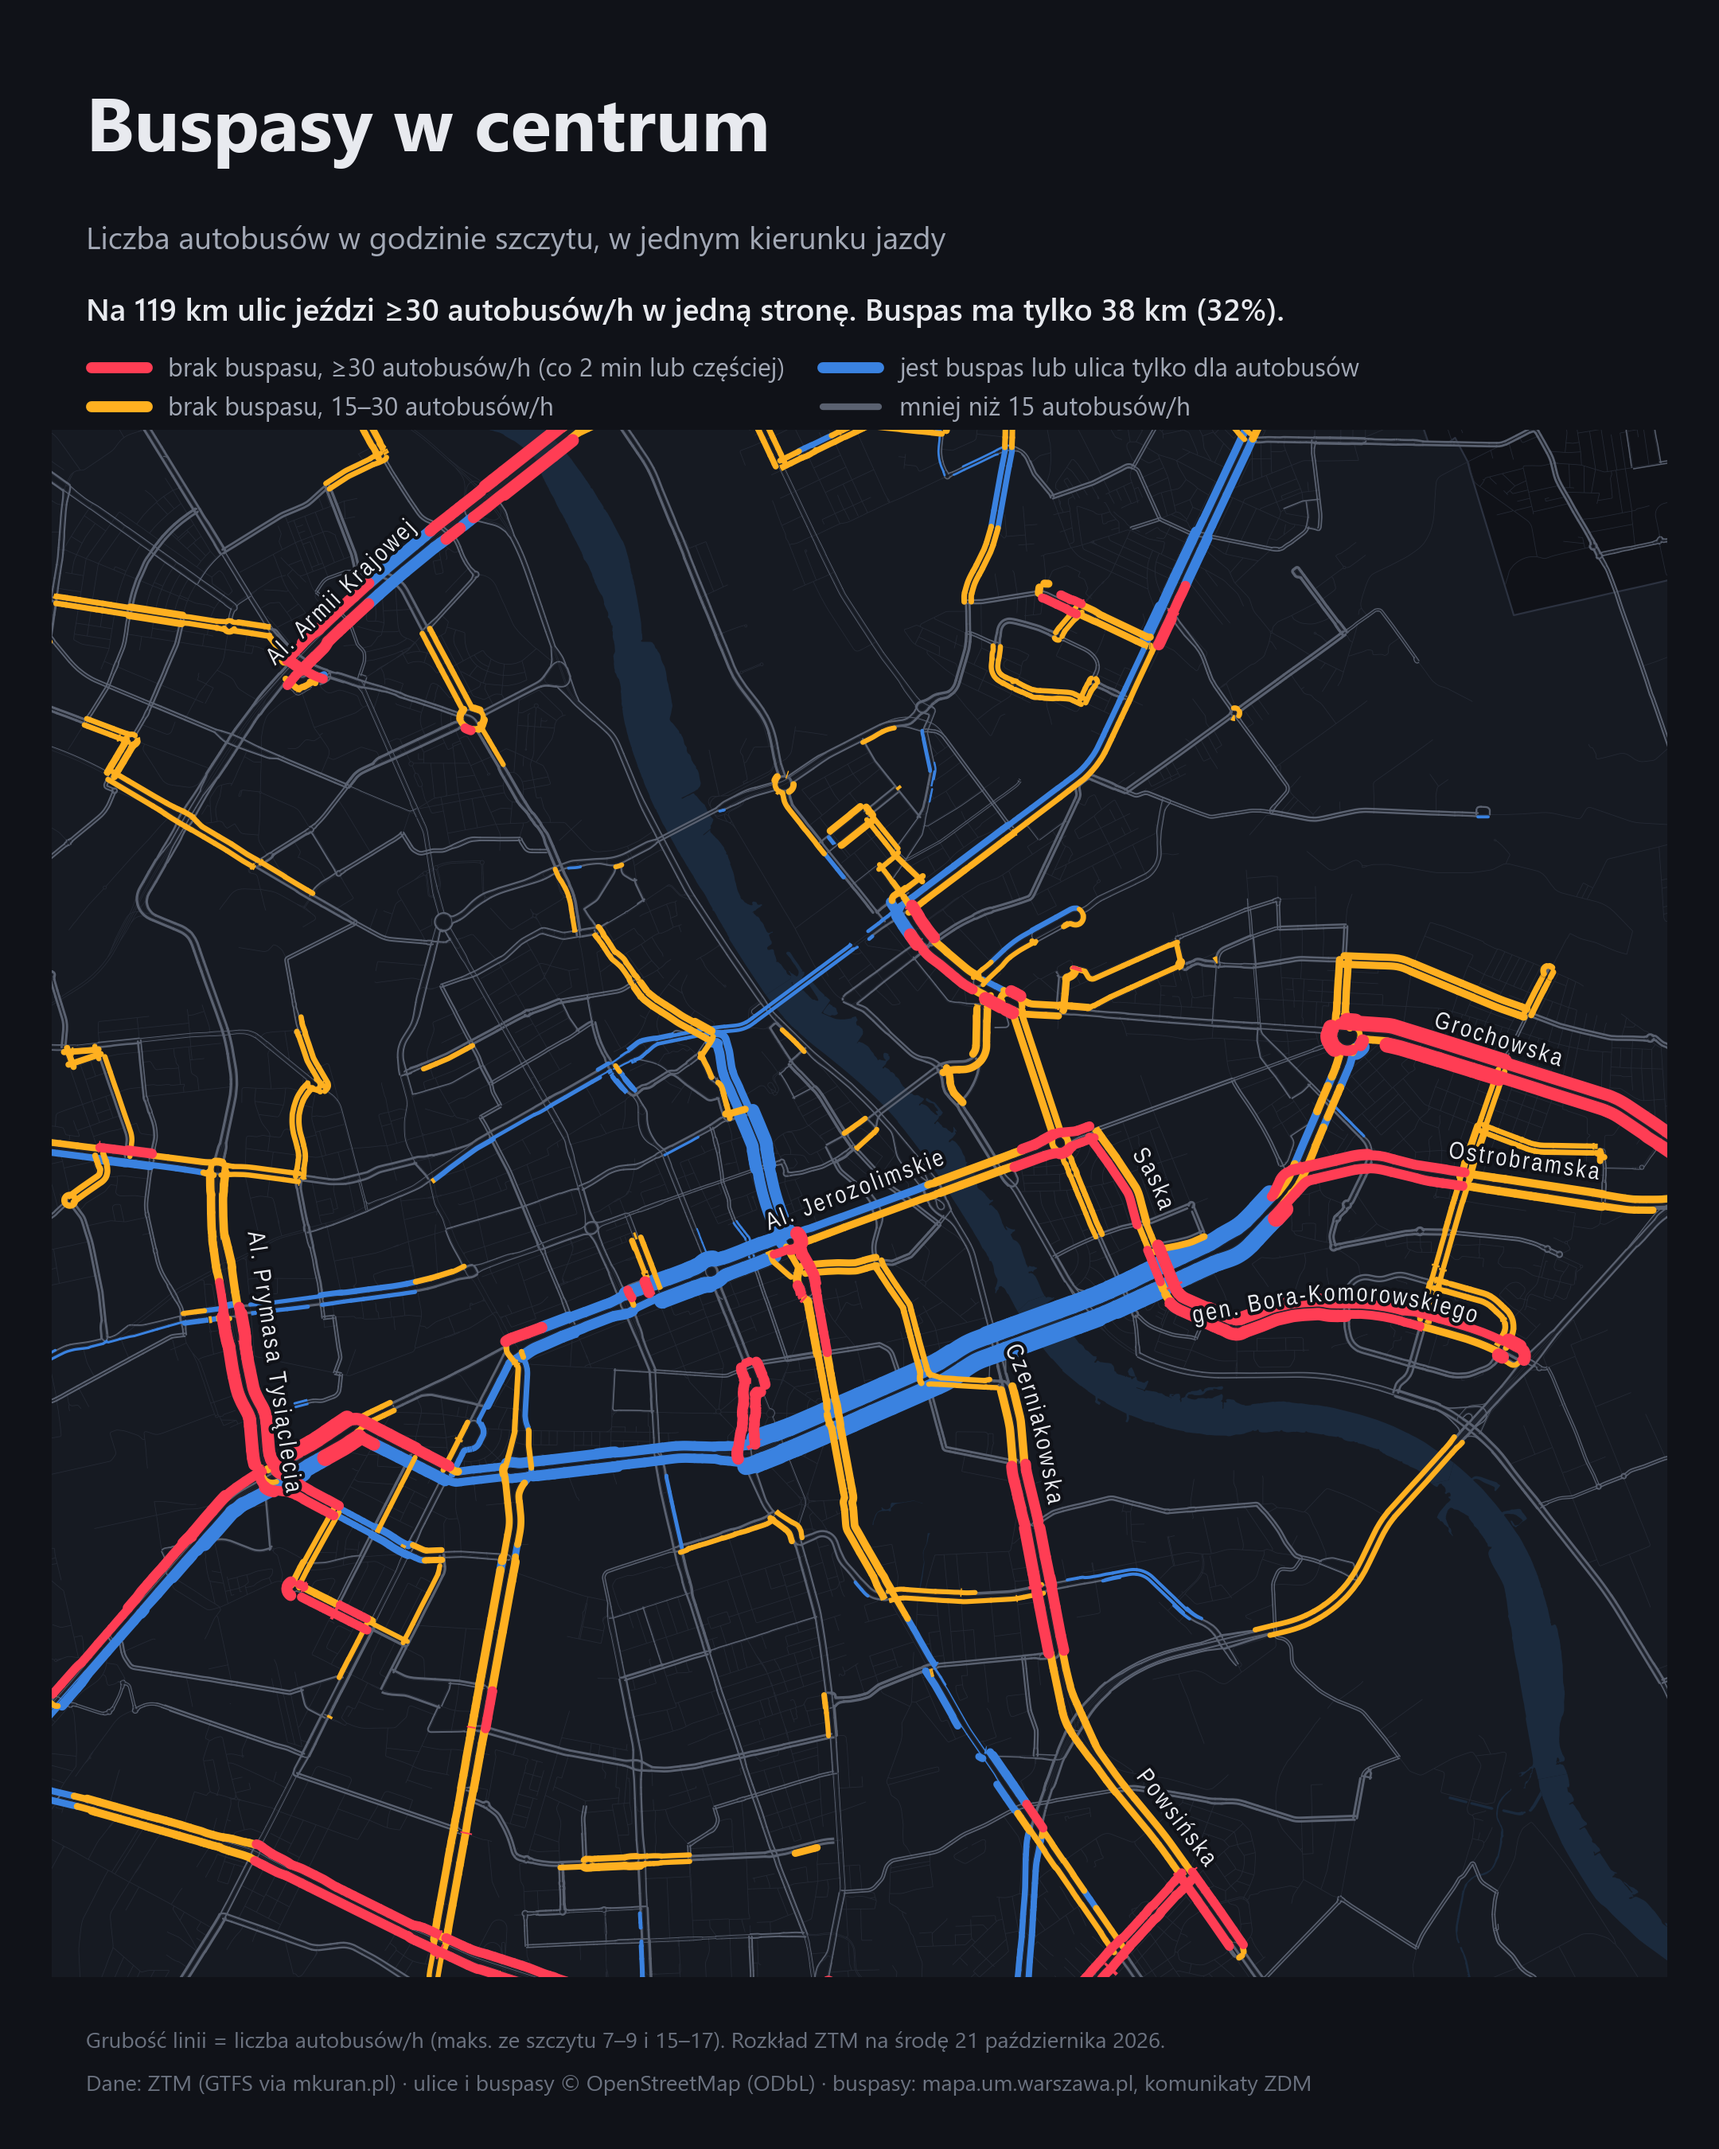
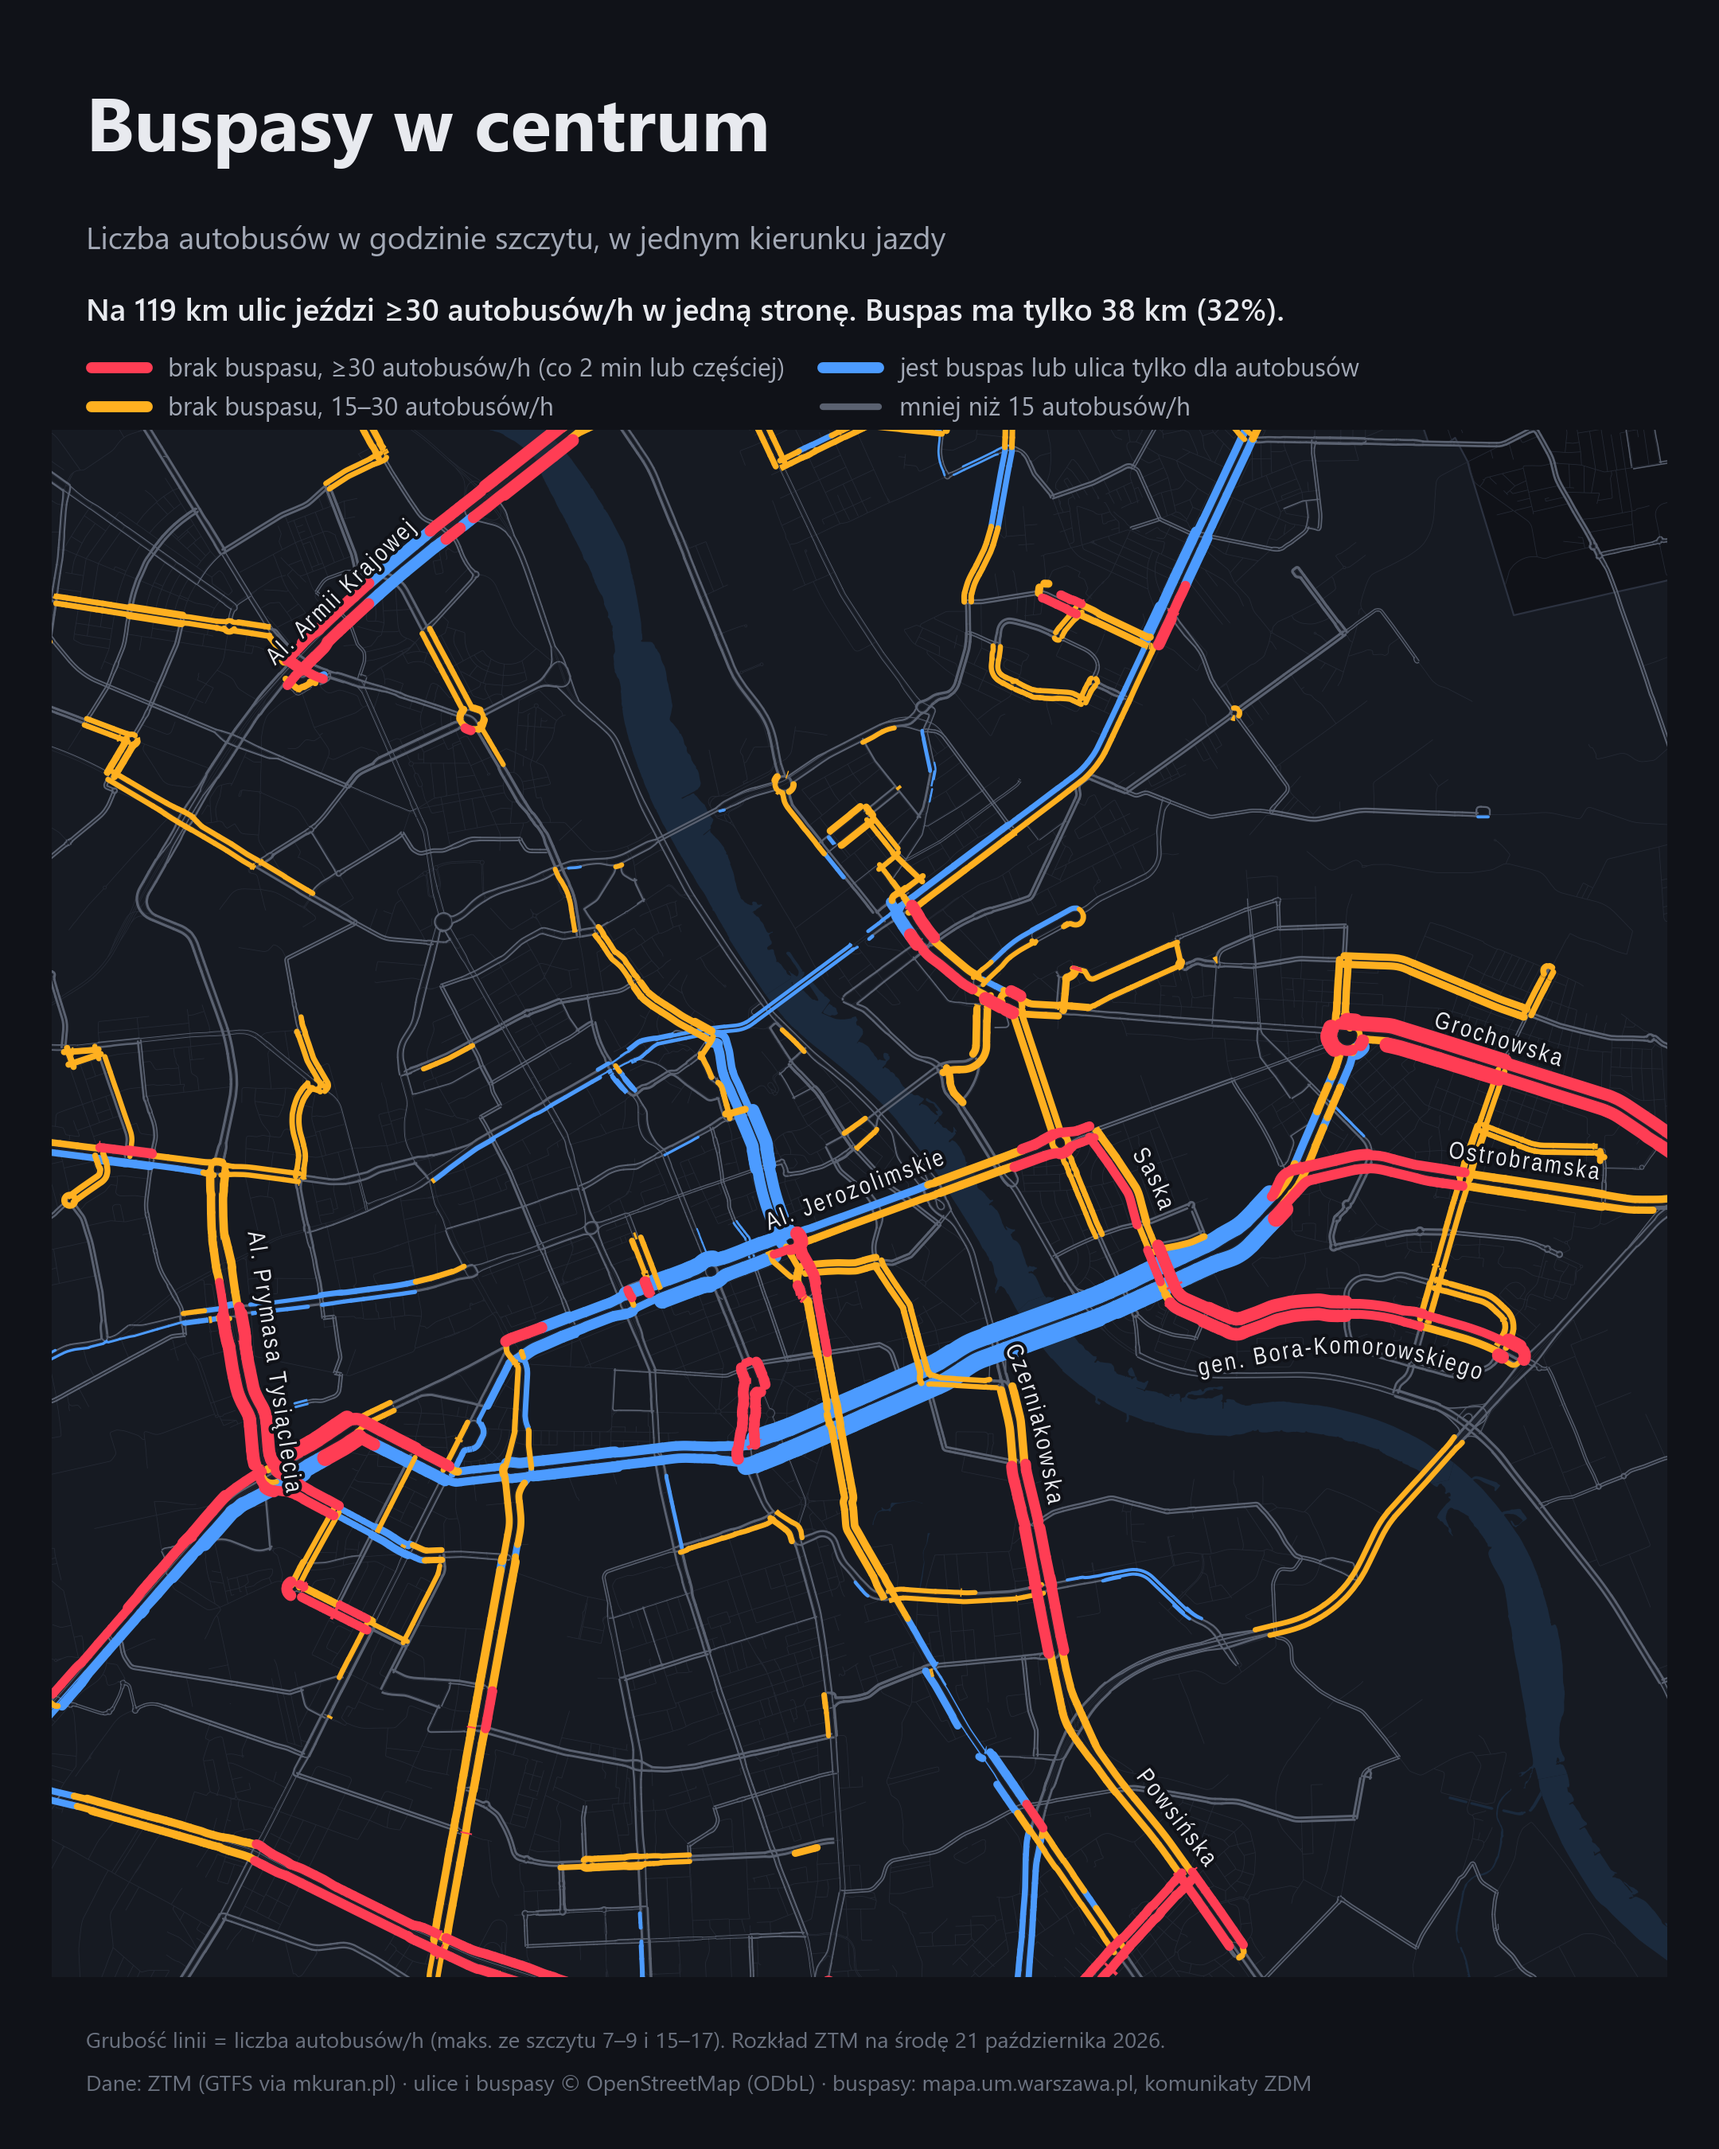
Brighter bus-lane blue, nudge Modlińska label, Bora-Komorowskiego label below line

diff --git a/bus_lanes/make_map.py b/bus_lanes/make_map.py
@@ -32,15 +32,16 @@ RIVER = "#1b2a3d"
 INK = "#e8eaef"
 INK2 = "#a3a9b6"
 INK3 = "#6b7280"
-COL = {"lane": "#3a82e0", "high": "#ff3d54", "medium": "#ffb020", "low": "#5a6170"}
+COL = {"lane": "#4c9bff", "high": "#ff3d54", "medium": "#ffb020", "low": "#5a6170"}
 ORDER = ["low", "lane", "medium", "high"]  # draw order (last on top)
 FONT = "Segoe UI"
 # Street labels: condensed face (loaded from file — matplotlib's font cache may not list it)
 _NARROW = Path(r"C:\Windows\Fonts\LiberationSansNarrow-Regular.ttf")
 LABEL_TRACKING = 0.10          # extra space between letters, in em
 # Per-street label tweaks (keys = short names as printed on the map)
-LABEL_SIDE = {"Radzymińska": -1, "Łopuszańska": -1}   # -1 = right of / below the street
+LABEL_SIDE = {"Radzymińska": -1, "Łopuszańska": -1, "gen. Bora-Komorowskiego": -1}   # -1 = right of / below the street
 LABEL_AT = {"Puławska": "south"}                       # label the southern end instead
+LABEL_NUDGE = {"Modlińska": (-600, 1000)}            # move label anchor by (dx, dy) metres
 CITY_EXTRA_LABELS = ["Łopuszańska", "Puławska", "Modlińska"]  # always labelled (if not in top 12)
 
 
@@ -171,6 +172,9 @@ def label_points(bus, streets, names):
         else:
             longest = gaps.geometry.iloc[int(np.argmax(gaps.length.to_numpy()))]
             target = longest.interpolate(0.5, normalized=True)
+        if label in LABEL_NUDGE:
+            dx, dy = LABEL_NUDGE[label]
+            target = shapely.Point(target.x + dx, target.y + dy)
         out[label] = (list(ways.geometry.values), target, LABEL_SIDE.get(label, 1))
     return out
 
